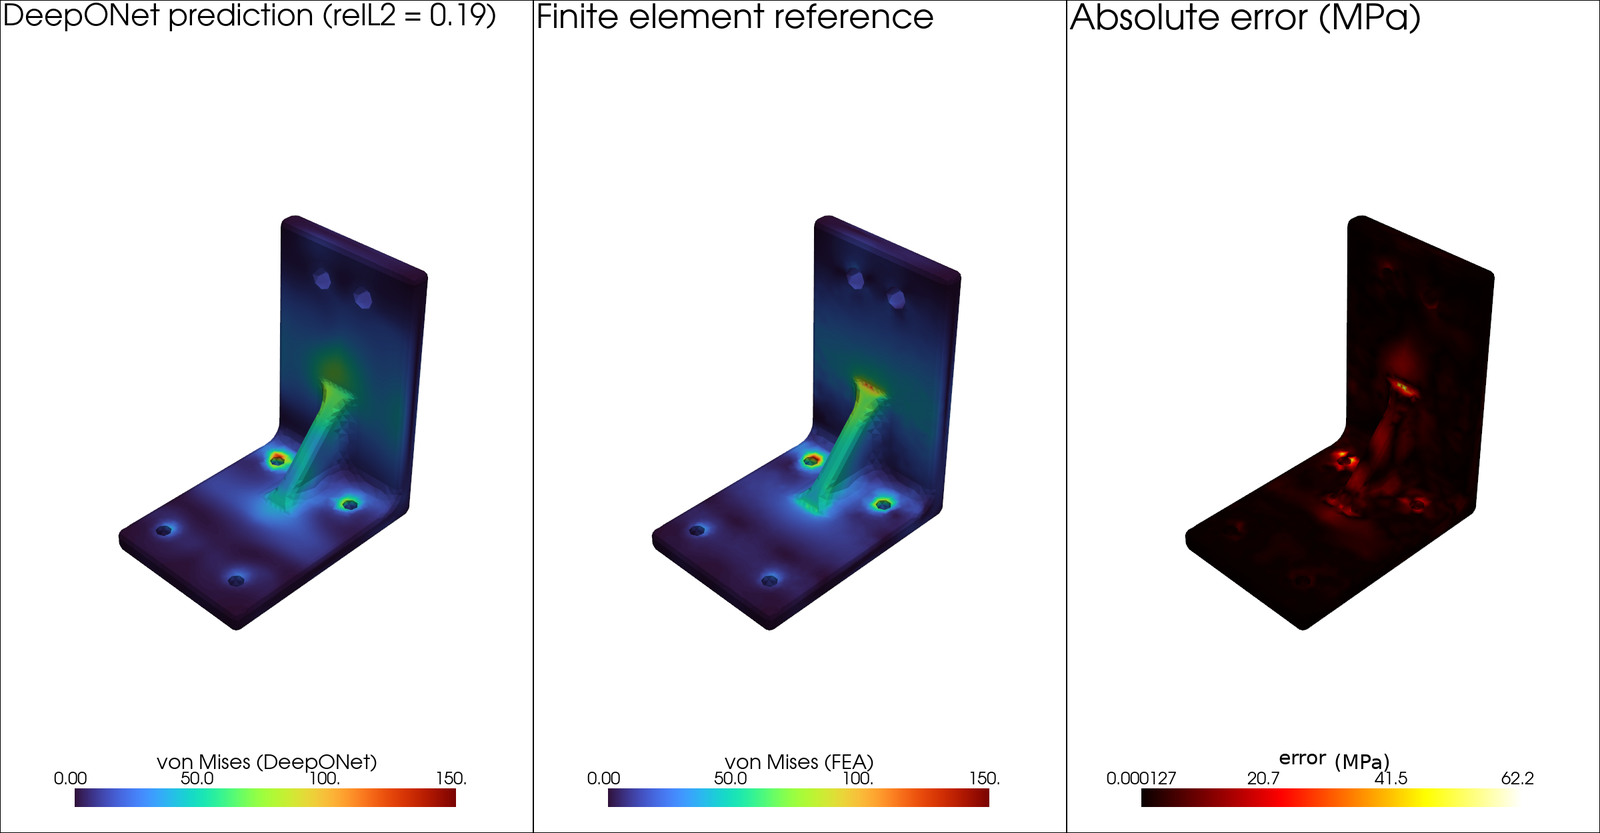
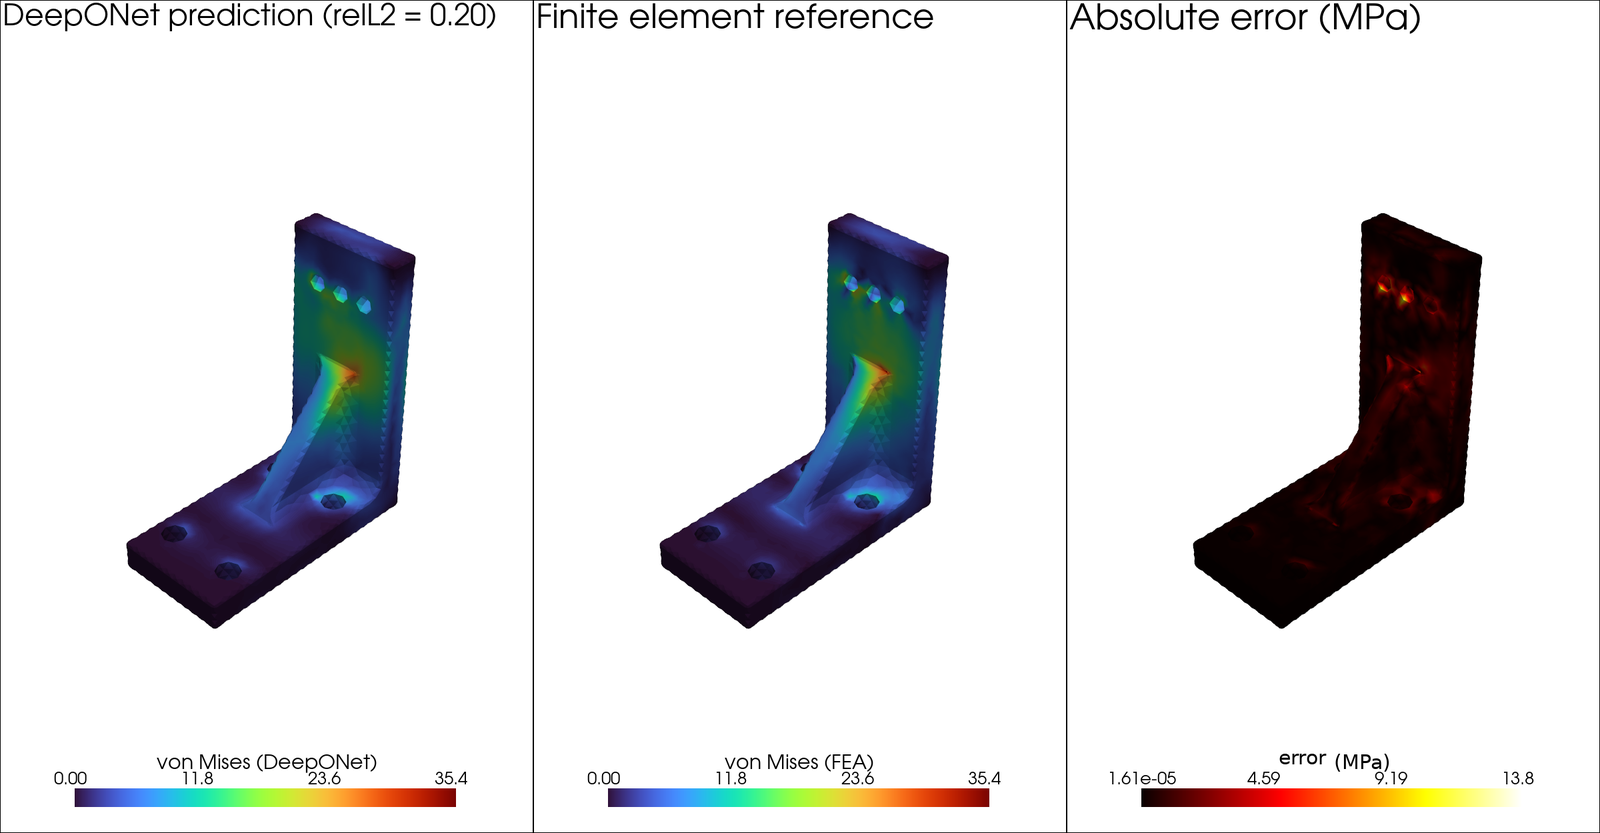
Update the README and figures with the revised model
Results of the delivered and revised models side by side, the revised
architecture, a typical (median-error) prediction of the revised model,
the updated error decomposition and the error by region.

diff --git a/README.md b/README.md
@@ -5,211 +5,181 @@
   <br><em>Finite element von Mises field of one of the 55,803 cases.</em>
 </p>
 
-Code accompanying the monograph of the same title, submitted to the MBA in
-Artificial Intelligence and Big Data of the Institute of Mathematical and
-Computer Sciences (ICMC), University of São Paulo, 2026.
+A neural operator that predicts the **full von Mises stress field** of a
+mechanical bracket from its geometry, load and material in **~50 ms**,
+against ~23 s for the finite element solution it was trained on. One model
+covers a catalogue of six structurally distinct parametric families.
+
+Code of the MBA monograph of the same title, MBA in Artificial Intelligence
+and Big Data, Institute of Mathematical and Computer Sciences (ICMC),
+University of São Paulo, 2026.
 
 - **Author:** Danilo Rizzo de Oliveira
 - **Advisor:** Prof. Dr. João Luís Garcia Rosa
 - **Co-advisor:** Prof. Dr. Alberto Costa Nogueira Junior
-- **Monograph:** TODO: link to the deposited version
 - **Dataset and trained model:** https://doi.org/10.5281/zenodo.22981969
+  (version 1.0 holds the delivered model; the revised checkpoint is not yet archived)
 
-The version of the code used in the monograph is tagged **`tcc-2026`**.
-Later commits may extend it; to reproduce the reported results, check out
-that tag.
+## Results
 
-## What this is
+| | Delivered model | **Revised model** |
+|---|---|---|
+| Relative L² field error, 8,370 validation cases | 0.252 | **0.193** |
+| Median signed peak error | −21.7% | **−7.5%** |
+| Median absolute peak error | 24.3% | **11.8%** |
+| Same architecture, geometry held fixed | 0.145 | **0.102** |
+| Share of the error caused by geometric variation | 42% | 47% |
+| Parameters | 145,282 | 145,666 |
 
-A DeepONet trained to predict the full von Mises stress field of a
-mechanical bracket from its geometry, load and material, over a catalogue
-of six structurally distinct parametric families (L, Z, U, T, O and G).
-Every training case is a finite element solution produced by the pipeline
-in this repository, verified for discretization against a criterion fixed
-in advance.
-
-<p align="center">
-  <img src="docs/images/architecture.png" width="90%" alt="DeepONet architecture">
-  <br><em>Geometry enters the branch as explicit parameters; the trunk receives the coordinates and the distances to the holes; the two meet in an element-wise fusion followed by a non-linear head.</em>
-</p>
-
-The main results reported in the monograph:
-
-| | relative L² field error |
-|---|---|
-| Final model, varying geometry (8,370 validation cases) | **0.252** |
-| Same architecture, geometry held fixed | 0.145 |
-
-- Geometric variation accounts for roughly **half** of the total error.
-  With the geometry fixed the model converges; with it varying, it begins
-  to overfit.
-- A single model over six families is **16% more accurate** on the U family
-  than a specialist trained on the U family alone.
-- The peak stress is **systematically underestimated**, by 22% on average.
-  The model is suitable for design **screening**, not for verification.
+- **The cost of geometric generalization is measured directly.** Holding
+  the geometry fixed while load and material vary isolates what geometric
+  variation adds to the error: about half of it, at full scale. In a paired
+  experiment, the model converges with the geometry fixed and begins to
+  overfit with it varying.
+- **Generality helps.** A single model over six families is 16% more
+  accurate on the U family than a specialist trained on that family alone.
+- **The revision was a loss, not a bigger network.** The delivered model
+  trained with the plain MSE on the log of the stress, which weighs a point
+  at 1 MPa like a point at 300 MPa. Weighting each point by its stress
+  (with a floor of 0.3 for the least stressed regions), plus three cheap
+  distance features, cut the field error by 23% and the peak bias by two
+  thirds, with 384 more parameters. The revised model is more accurate in
+  99% of the validation cases.
+- The peak is still **underestimated**, so the model is for design
+  **screening**, not for verification.
 
 <p align="center">
   <img src="docs/images/prediction.png" width="95%" alt="DeepONet prediction against the finite element reference">
-  <br><em>Final model on a well-predicted validation case of the ribbed family (G): prediction, finite element reference and absolute error. Relative L2 error 0.186 against a family mean of 0.272; peak within 6.5%.</em>
+  <br><em>Revised model on a typical validation case of the ribbed family (G): relative L² error 0.20, at the family median of 0.207. Prediction, finite element reference and absolute error.</em>
+</p>
+
+## The model
+
+<p align="center">
+  <img src="docs/images/architecture.png" width="92%" alt="Revised DeepONet architecture">
+  <br><em>Geometry enters the branch as eleven explicit parameters; the trunk receives the coordinates and five geometric features (the darker blocks were added by the revision); the two meet in an element-wise fusion and a non-linear head; the load magnitude is restored analytically.</em>
+</p>
+
+No signed distance field and no learned shape encoder: the cheapest
+geometric representation the literature allows, trained on a workstation
+and a rented T4.
+
+## Where the error lies
+
+<p align="center">
+  <img src="docs/images/error_decomposition.png" width="85%" alt="Decomposition of the error">
+  <br><em>The error split into what the reference solution itself resolves (P2 against P3), what the architecture misses even with the geometry fixed, and what geometric variation adds. The revised objective shrank the middle band most.</em>
 </p>
 
 <p align="center">
-  <img src="docs/images/error_decomposition.png" width="90%" alt="Decomposition of the error">
-  <br><em>Where the error lies. Expanding the dataset reduced only the part caused by geometric variation; the part the architecture cannot represent, even with the geometry fixed, did not move.</em>
+  <img src="docs/images/error_by_region.png" width="70%" alt="Local error by region">
+  <br><em>Local error around the fixation holes, the load holes and the concave edges, before and after the revision.</em>
 </p>
-
-## Repository contents
-
-| Script | Role |
-|---|---|
-| `generate_dataset.py` | Parametric generation, meshing (gmsh) and finite element solution (FEniCSx) of the brackets. Writes one `.npz` per case. |
-| `compact_dataset.py` | Builds the reduced dataset used for training: drops the mesh connectivity and writes float32. |
-| `bracket_dataset.py` | Branch and trunk encodings, normalization statistics, and the PyTorch dataset. |
-| `train_deeponet.py` | The DeepONet and its training loop, with checkpoint resume. |
-| `train_colab.ipynb` | Notebook that trained the final model on a Colab GPU. |
-| `inspect_cases.py` | Per-case inspection and figures; with `--lista`, evaluates every case and prints one line per case. |
-| `summarize_listing.py` | Aggregates the `--lista` output into the per-family table of the monograph. |
-| `ablation_p2.py` | The single-variable architectural ablation on 300 quadratic-element cases. |
-| `benchmark_inference.py` | Inference timing against the solver. |
-| `figs_fixed.py`, `figs_final.py`, `figs_pair.py`, `figs_bc_mesh.py`, `fig_hero.py`, `render_families.py` | The field, boundary-condition, mesh and geometry figures of the monograph. |
-
-## Requirements
-
-The generator needs FEniCSx (dolfinx) and gmsh; everything else needs
-PyTorch, NumPy and, for the figures, PyVista.
-
-TODO: add the exact environment, for example with
-`conda env export --no-builds > environment.yml` from the environment the
-work was run in.
 
 ## Data
 
-The dataset holds **55,803** cases, archived at the DOI above in two forms:
-the complete set, and a reduced set without the mesh connectivity, about
-five times smaller and sufficient for training.
+**55,803** finite element cases (FEniCSx, quadratic tetrahedra verified
+against cubic ones), archived at the DOI above in two forms: the complete
+set, and a set without the mesh connectivity, five times smaller and enough
+for training.
 
 | Family | L | Z | U | T | O | G | Total |
 |---|---|---|---|---|---|---|---|
 | Cases | 9,999 | 10,000 | 9,999 | 8,751 | 8,486 | 8,568 | **55,803** |
-
-The families are not balanced: generation was stopped before every family
-reached the same count. The monograph discusses the effect of this.
 
 <p align="center">
   <img src="docs/images/families.png" width="75%" alt="The six bracket families">
   <br><em>The six parametric families: L, Z, U, T, O and G.</em>
 </p>
 
-Each `sample_NNNNNN.npz` contains:
-
-| Field | Content |
-|---|---|
-| `nodes`, `cells` | Mesh vertices and tetrahedron connectivity |
-| `u`, `stress`, `von_mises` | Displacement, stress tensor and von Mises stress at the vertices |
-| `E`, `nu` | Elastic constants |
-| `loads`, `moments`, `l_ref` | Applied force and moment resultants, and the lever reference |
-| `familia` | Family index: 0=L, 1=Z, 2=U, 3=T, 4=O, 5=G |
-| `geo_params` | The eleven geometric parameters `[A, B, C, W, T, RF, RB, DF, DL, NF, NL]` |
-| `furos_fix`, `furos_carga` | Fixation and load holes, one row per hole: `[cx, cy, cz, ax, ay, az, r, half]` |
-| `load_centers`, `fixed_centers` | Hole centers |
-| `n_loads`, `n_nodes`, `n_cells`, `max_vm`, `max_disp` | Counts and summary values |
-
-## Reproducing the results
-
-The scripts assume the project lives in `~/projetos/tcc_brackets`; several
-of them set that path as `BASE`. Adjust it if yours differs.
-
-**1. Generate the data.** One run per family, with quadratic elements:
-
-```bash
-python generate_dataset.py --out-dir exp_L --fam L --seed 0 --i0 0 --n 2000 --grau 2
-```
-
-The fixed-geometry datasets were generated with `--geo-fixa <seed>`, which
-freezes the part and varies only load and material. TODO: record the seed
-used for each family.
-
-Generation is deterministic in its sampling: the geometry, load and
-material of each case derive from the seed and the case index. It is **not**
-reproducible at the level of the mesh, because gmsh optimizes the mesh
-without a fixed thread count and the fillet operation may fall back to a
-smaller radius. Regenerating yields a statistically equivalent dataset,
-not an identical one; exact reproduction of the figures requires the
+Each `sample_NNNNNN.npz` holds the mesh (`nodes`, `cells`), the fields at
+the vertices (`u`, `stress`, `von_mises`), the material (`E`, `nu`), the
+load (`loads`, `moments`, `l_ref`), the family index (`familia`: 0=L, 1=Z,
+2=U, 3=T, 4=O, 5=G), the eleven geometric parameters (`geo_params`:
+`A, B, C, W, T, RF, RB, DF, DL, NF, NL`) and the holes (`furos_fix`,
+`furos_carga`: one row `[cx, cy, cz, ax, ay, az, r, half]` per fixation or
+load hole). Those field names are Portuguese because they are written in the
 archived files.
 
-**2. Train.** The final model was trained on a Colab T4 with
-`train_colab.ipynb`, using:
+## Reproducing
+
+Requirements: FEniCSx (dolfinx), gmsh and mpi4py for the generator; PyTorch
+and NumPy for everything else; PyVista for the figures; SciPy for the
+paired tests. Several scripts default to the author's project folder
+(`PROJECT_DIR = ~/projetos/tcc_brackets`); adjust it if yours differs.
+
+**1. Generate** (one run per family, quadratic elements; the sampling is
+deterministic by seed and case index):
 
 ```bash
-python -u train_deeponet.py --dataset dataset_v4_treino --device cuda \
-  --batch 32 --n-query 1024 --repeats 1 \
-  --dist-furos --decoder prod --eval-every 10 --save-every 10 \
-  --final-eval 400 --resume --out deeponet_6fam_55k.pt
+python generate_dataset.py --out-dir exp_L --family L --seed 0 --i0 0 --n 2000 --degree 2
+python compact_dataset.py --src exp_L --dst exp_L_train     # training copy without connectivity
+python concave_edges.py --dataset exp_L_train               # edges for --edge-distance
 ```
 
-It ran for **3,187 epochs**: the first 989 at the default learning rate of
-10⁻³, then resumed with `--lr 3e-4`, which restarts the rate and the
-scheduler. Running the notebook alone does not reproduce that restart;
-it must be done as a second run with `--resume --lr 3e-4`.
+`--fixed-geometry <seed>` freezes the part and varies only load and
+material; `--check-degree 3` re-solves each case with cubic elements on the
+same mesh (the verification). The mesh itself is not bit-reproducible
+(gmsh threads, fillet fallbacks), so regenerating gives a statistically
+equivalent dataset; exact figures need the archived files.
 
-**3. Evaluate by family.**
+**2. Train** the revised model (as on Colab, `train_colab.ipynb`):
 
 ```bash
-python inspect_cases.py --ckpt deeponet_6fam_55k.pt \
-  --dataset dataset_v4_p2 --lista > lista_55k.txt
-python summarize_listing.py lista_55k.txt
+python train_deeponet.py --dataset dataset_v4_treino --device cuda \
+  --batch 32 --n-query 1024 --repeats 1 --decoder prod \
+  --hole-distances --edge-distance --hole-proximity \
+  --stress-weight 1 --weight-floor 0.3 \
+  --epochs 4000 --lr 3e-4 --eval-every 10 --save-every 10 \
+  --final-eval 400 --resume --out revised.pt
 ```
 
-**4. Ablation, figures and timing.** `ablation_p2.py`, the `figs_*.py`
-scripts and `benchmark_inference.py`, each documented at its top.
+The delivered model drops the last two feature flags and the weighting; it
+ran 3,187 epochs, at 10⁻³ until epoch 989 and then resumed once with
+`--lr 3e-4`, which restarts the rate and the scheduler. Training writes
+`<out>_val_errors.csv`, the per-case validation error.
 
-## A note on names
+**3. Evaluate:**
 
-The code is in English, but some names were deliberately kept in Portuguese
-because they are part of the interface with the published data and model,
-and changing them would break compatibility:
+```bash
+python inspect_cases.py --ckpt revised.pt --dataset dataset_v4_treino --listing > listing.txt
+python summarize_listing.py listing.txt          # per-family table
+python compare_models.py delivered_val_errors.csv revised_val_errors.csv   # paired test
+python diagnose_error.py --ckpt revised.pt --dataset dataset_v4_treino   # error by region
+```
 
-- **Command-line options**, such as `--caso`, `--lista`, `--salvar` and
-  `--dist-furos`. They are also saved inside the checkpoint.
-- **The `.npz` field names**, such as `familia`, `furos_fix` and
-  `furos_carga`, which are written in the 55,803 archived files.
-- **The checkpoint key** `split["treino"]`.
-- **The training log lines**, such as `época` and `relL2 treino méd=`, which
-  the notebook and `ablation_p2.py` parse, and which appear in the archived
-  training log.
+## Scripts
 
-The script names were translated to English after the monograph was
-submitted. The tag `tcc-2026` keeps the original names; the code is otherwise
-identical:
-
-| Tag `tcc-2026` | Current name |
+| Script | Role |
 |---|---|
-| `gen_simples.py` | `generate_dataset.py` |
-| `dataset_simples.py` | `bracket_dataset.py` |
-| `train_simples.py` | `train_deeponet.py` |
-| `inspecionar_simples.py` | `inspect_cases.py` |
-| `compactar_dataset.py` | `compact_dataset.py` |
-| `analisa_lista.py` | `summarize_listing.py` |
-| `ablacao_p2.py` | `ablation_p2.py` |
-| `bench_inferencia.py` | `benchmark_inference.py` |
-| `figs_fixo.py` | `figs_fixed.py` |
-| `figs_par.py` | `figs_pair.py` |
-| `figs_bc_malha.py` | `figs_bc_mesh.py` |
-| `render_familias.py` | `render_families.py` |
-| `treino_colab.ipynb` | `train_colab.ipynb` |
+| `generate_dataset.py` | Parametric geometry, meshing (gmsh) and finite element solution (FEniCSx); one `.npz` per case. |
+| `compact_dataset.py` | Training copy of a dataset: no connectivity, float32. |
+| `concave_edges.py` | Recovers the concave edges of every case from the generator's seed, verified against the stored parameters. |
+| `bracket_dataset.py` | Branch and trunk encodings, distance features, normalization, PyTorch dataset. |
+| `train_deeponet.py` | The DeepONet, the stress-weighted loss, the training loop with resume, and the checkpoint loader. |
+| `train_colab.ipynb` | Training on a Colab GPU, resilient to session drops (delivered or revised model). |
+| `inspect_cases.py` | Per-case figures, or a listing of every case with its error. |
+| `summarize_listing.py` | Per-family table from a listing. |
+| `evaluate_checkpoint.py` | Per-case validation error of a checkpoint, as CSV. |
+| `compare_models.py` | Paired comparison of two models (Wilcoxon), by family. |
+| `diagnose_error.py` | Error by region, by stress level and against each geometric parameter. |
+| `median_case_images.py` | Figures of the typical (median-error) case of each family. |
+| `verification_report.py` | Audit of a dataset: P2 against P3 table, generation time, parallel processes. |
+| `ablation_p2.py` | The exploratory single-variable architecture study. |
+| `benchmark_inference.py` | Inference timing. |
+| `figs_*.py`, `fig_hero.py`, `render_families.py` | The remaining figures of the monograph. |
 
-A short glossary: *caso* = case, *lista* = listing, *salvar* = save,
-*furo* = hole, *carga* = load, *fixação* = fixation, *família* = family,
-*treino* = training, *época* = epoch, *méd* = mean.
+## Versions and names
 
-Some module docstrings describe an earlier stage of the work — for
-example, three families instead of six, or a dot-product decoder — and
-have not been updated. The monograph is the authoritative description of
-the final configuration.
+The tag **`tcc-2026`** is the code of the version submitted to the examining
+committee. Since then, the stress-weighted loss and the edge and proximity
+features were added, and the code was translated: script names, option
+names (`--dist-furos` → `--hole-distances`, `--caso` → `--case`, `--lista` →
+`--listing`, `--grau` → `--degree`, ...), log lines and output files. The old
+option names are still accepted, and checkpoints, logs and CSVs written
+before the translation load unchanged.
 
 ## Citation
-
-TODO: fill in once the monograph is deposited.
 
 ```bibtex
 @misc{oliveira2026deeponet,
